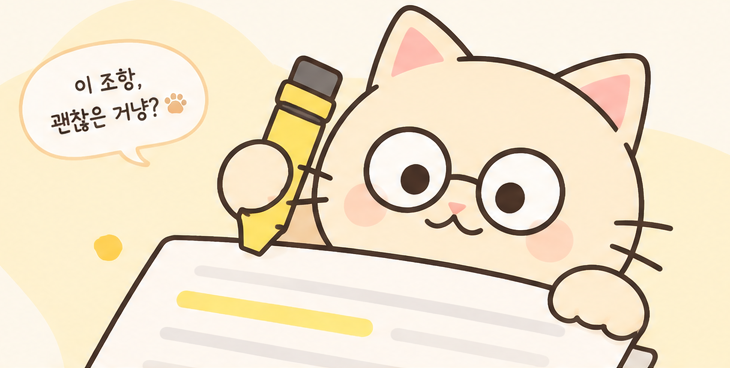
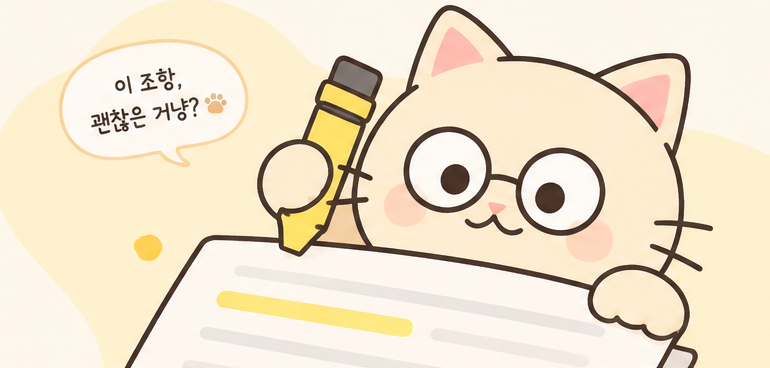
fix: 하단 마스코트 제거와 히어로 이미지 보정

Changed region(s): [[0.0, 0.0, 0.9342, 1.0], [0.0, 0.0, 0.3315, 0.4484], [0.3616, 0.837, 0.5425, 0.9266]]

diff --git a/app/page.module.css b/app/page.module.css
@@ -119,21 +119,15 @@
   position: relative;
 }
 
-/* 이미지 가장자리(위·좌·우)를 페이지 배경으로 부드럽게 녹인다. 아래쪽은 입력 카드 뒤로 들어간다. */
+/* 좌·우 가장자리만 좁게 페이드한다. 위쪽은 귀 끝이 흐려지지 않게 페이드하지 않고, 아래쪽은 입력 카드 뒤로 들어간다. */
 .heroImg {
   display: block;
   width: 100%;
-  max-width: 560px;
+  max-width: 600px;
   height: auto;
   margin-left: auto;
-  -webkit-mask-image:
-    linear-gradient(to right, transparent, #000 9%, #000 91%, transparent),
-    linear-gradient(to bottom, transparent, #000 9%, #000);
-  -webkit-mask-composite: source-in;
-  mask-image:
-    linear-gradient(to right, transparent, #000 9%, #000 91%, transparent),
-    linear-gradient(to bottom, transparent, #000 9%, #000);
-  mask-composite: intersect;
+  -webkit-mask-image: linear-gradient(to right, transparent, #000 4%, #000 96%, transparent);
+  mask-image: linear-gradient(to right, transparent, #000 4%, #000 96%, transparent);
 }
 
 .paw {
@@ -538,27 +532,6 @@
   line-height: 1.6;
 }
 
-.footerText {
-  max-width: calc(100% - 250px);
-}
-
-.peek {
-  position: absolute;
-  right: 0.5rem;
-  bottom: 0;
-  width: 230px;
-  height: auto;
-  pointer-events: none;
-  -webkit-mask-image:
-    linear-gradient(to right, transparent, #000 8%, #000 92%, transparent),
-    linear-gradient(to bottom, transparent, #000 8%, #000);
-  -webkit-mask-composite: source-in;
-  mask-image:
-    linear-gradient(to right, transparent, #000 8%, #000 92%, transparent),
-    linear-gradient(to bottom, transparent, #000 8%, #000);
-  mask-composite: intersect;
-}
-
 /* ---------- mobile ---------- */
 @media (max-width: 720px) {
   .blobLeft {
@@ -577,13 +550,15 @@
 
   .heroImg {
     margin: 0 auto;
-    max-width: 380px;
+    max-width: 440px;
     -webkit-mask-image:
-      linear-gradient(to right, transparent, #000 9%, #000 91%, transparent),
-      linear-gradient(to bottom, transparent, #000 9%, #000 91%, transparent);
+      linear-gradient(to right, transparent, #000 4%, #000 96%, transparent),
+      linear-gradient(to bottom, #000, #000 92%, transparent);
+    -webkit-mask-composite: source-in;
     mask-image:
-      linear-gradient(to right, transparent, #000 9%, #000 91%, transparent),
-      linear-gradient(to bottom, transparent, #000 9%, #000 91%, transparent);
+      linear-gradient(to right, transparent, #000 4%, #000 96%, transparent),
+      linear-gradient(to bottom, #000, #000 92%, transparent);
+    mask-composite: intersect;
   }
 
   .heroText {
@@ -612,11 +587,4 @@
     flex: 1 1 auto;
   }
 
-  .footerText {
-    max-width: 100%;
-  }
-
-  .peek {
-    display: none;
-  }
 }

diff --git a/app/page.tsx b/app/page.tsx
@@ -170,7 +170,7 @@ export default function Home() {
               src="/cat-hero.png"
               alt="안경을 쓴 고양이가 계약서의 한 줄에 노란 형광펜을 칠하고 있는 그림"
               className={styles.heroImg}
-              width={730}
+              width={770}
               height={368}
               loading="eager"
               decoding="async"
@@ -277,19 +277,8 @@ export default function Home() {
       </main>
 
       <footer className={styles.footer}>
-        <div className={styles.footerText}>
-          <p>{result?.notice ?? "AI가 생성한 결과이며 법률 자문이 아닌 점검 도구입니다."}</p>
-          <p>AI는 틀릴 수 있습니다. 중요한 계약은 전문가와 상담하세요.</p>
-        </div>
-        {/* eslint-disable-next-line @next/next/no-img-element */}
-        <img
-          src="/cat-peek.png"
-          alt=""
-          className={styles.peek}
-          width={300}
-          height={259}
-          decoding="async"
-        />
+        <p>{result?.notice ?? "AI가 생성한 결과이며 법률 자문이 아닌 점검 도구입니다."}</p>
+        <p>AI는 틀릴 수 있습니다. 중요한 계약은 전문가와 상담하세요.</p>
       </footer>
     </div>
   );
